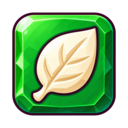
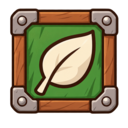
Match tile art to hero style and add Shield Orc set

diff --git a/docs/ideas/tile_art.md b/docs/ideas/tile_art.md
@@ -1,22 +1,32 @@
-# Bộ ô gạch 4 màu — bản đầu
+# Bộ ô gạch theo quái — Orc Khiên
 
 Theo mục 5 của `docs/core_plan.md`. Nhánh: `art/tiles`.
 
 | File trong `assets/tiles/` | Màu | Biểu tượng | Ý nghĩa |
 |---|---|---|---|
-| `tile_red.png` | Đỏ ruby | Kiếm | Sát thương |
-| `tile_green.png` | Xanh lá emerald | Lá cây | Hồi máu |
-| `tile_yellow.png` | Vàng hổ phách | Đồng xu | Vàng |
-| `tile_purple.png` | Tím amethyst | Pha lê | Phá khiên |
+| `tile_red.png` | Đỏ | Kiếm | Sát thương |
+| `tile_green.png` | Xanh lá | Lá cây | Hồi máu |
+| `tile_yellow.png` | Vàng đất | Đồng xu | Vàng |
+| `tile_purple.png` | Tím | Pha lê | Phá khiên |
 
 Mỗi file là PNG RGBA 128×128 px, có khoảng đệm trong suốt. Biểu tượng khác nhau giúp nhận diện mà không chỉ dựa vào màu. Khung vuông bo góc thống nhất để ghép trên lưới.
 
-## Style guide dùng cho bộ đầu
+## Style guide theo ảnh anh hùng đã được cung cấp
 
-Fantasy hoạt hình, viền tím sẫm dày, bề mặt đá quý vát cạnh, ánh sáng từ góc trên trái, màu bão hòa, biểu tượng màu ngà lớn. Nhìn thẳng, không chữ, không đổ bóng ngoài ô. Ưu tiên nét rõ khi hiển thị ở 110 px hoặc nhỏ hơn. Đây là đề xuất ban đầu, chưa có style guide hay ảnh anh hùng đã chốt trong repo.
+Tham chiếu trực tiếp ảnh anh hùng người dùng cung cấp trong cuộc trò chuyện: viền nâu đậm, nét hoạt hình 2D, mảng màu lớn và bóng đổ ít lớp. Chất liệu gỗ, da và kim loại mờ; bảng màu ấm theo khiên gỗ, kiếm và trang phục của anh hùng. Ảnh tham chiếu chưa được lưu trong repo.
 
-Ảnh được tạo bằng công cụ sinh ảnh; các biến thể dùng ô đỏ làm tham chiếu. Bản xuất được thu về 128×128 px và giữ alpha. Bản gốc độ phân giải cao nằm ngoài checkout trong `/workspace/generated_images/` của phiên tạo ảnh, không phải đường dẫn phụ thuộc khi chạy game.
+Bộ Orc Khiên: khung gỗ vuông, nẹp sắt và đinh tán lớn, bảng màu sơn hơi trầm. Biểu tượng lớn, viền rõ, nhìn thẳng. Tránh bề mặt kẹo bóng, glow, hạt sáng, gradient dày và chi tiết li ti. Khung chung vẫn để lộ phần màu lớn để đọc tốt ở kích thước 110 px.
+
+Ảnh được tạo bằng công cụ sinh ảnh với ảnh anh hùng làm tham chiếu phong cách. Bốn ô được tạo cùng một sheet, tách riêng, thu về 128×128 px và giữ alpha. Bản gốc độ phân giải cao nằm ngoài checkout trong `/workspace/generated_images/` của phiên tạo ảnh, không phải đường dẫn phụ thuộc khi chạy game. Bản đá quý ban đầu được thay bằng bộ này; có thể xem bản cũ trong lịch sử Git.
+
+## Mỗi quái một bộ gạch
+
+- Bộ đầu tiên: `assets/tiles/orc_shield/tile_<color>.png`, với `color` là `red`, `green`, `yellow`, `purple`.
+- Bốn file ở gốc `assets/tiles/` là bản sao của bộ Orc Khiên để giữ đúng các đường dẫn đã ghi trong core plan. Khi chỉnh bộ Orc, cập nhật cả bản sao này cho đến khi code có cơ chế chọn bộ theo quái.
+- Các quái tiếp theo dùng thư mục `assets/tiles/<monster_id>/` và cùng bốn tên file. Mỗi bộ thay khung, chất liệu và họa tiết theo quái, nhưng giữ ý nghĩa màu và biểu tượng để người chơi không phải học lại luật.
+- Mọi bộ giữ PNG RGBA 128×128, cùng kích thước hình bên trong và khoảng đệm trong suốt. Không thêm chi tiết tràn sang ô kế bên.
+- Doc hiện chỉ xác định Orc Khiên; chưa tạo bộ cho quái chưa có thiết kế.
 
 ## Bàn giao
 
-Code có thể nạp trực tiếp các file bằng đường dẫn `res://assets/tiles/tile_<color>.png`. Bộ ảnh chưa được gắn vào bàn chơi vì checkout hiện chưa có scene hay script. B1–B2 vẫn có thể dùng ô màu tạm theo kế hoạch. Không thay đổi cấu hình project, scene, code hoặc tests trong nhánh ảnh này.
+Code hiện có thể nạp trực tiếp các file bằng đường dẫn `res://assets/tiles/tile_<color>.png`. Đề xuất cho phần code: chọn `res://assets/tiles/<monster_id>/tile_<color>.png` theo quái hiện tại; dùng bộ gốc làm dự phòng. Đây là đề xuất bàn giao, chưa triển khai cơ chế đổi bộ. Bộ ảnh chưa được gắn vào bàn chơi vì checkout hiện chưa có scene hay script. B1–B2 vẫn có thể dùng ô màu tạm theo kế hoạch. Không thay đổi cấu hình project, scene, code hoặc tests trong nhánh ảnh này.
